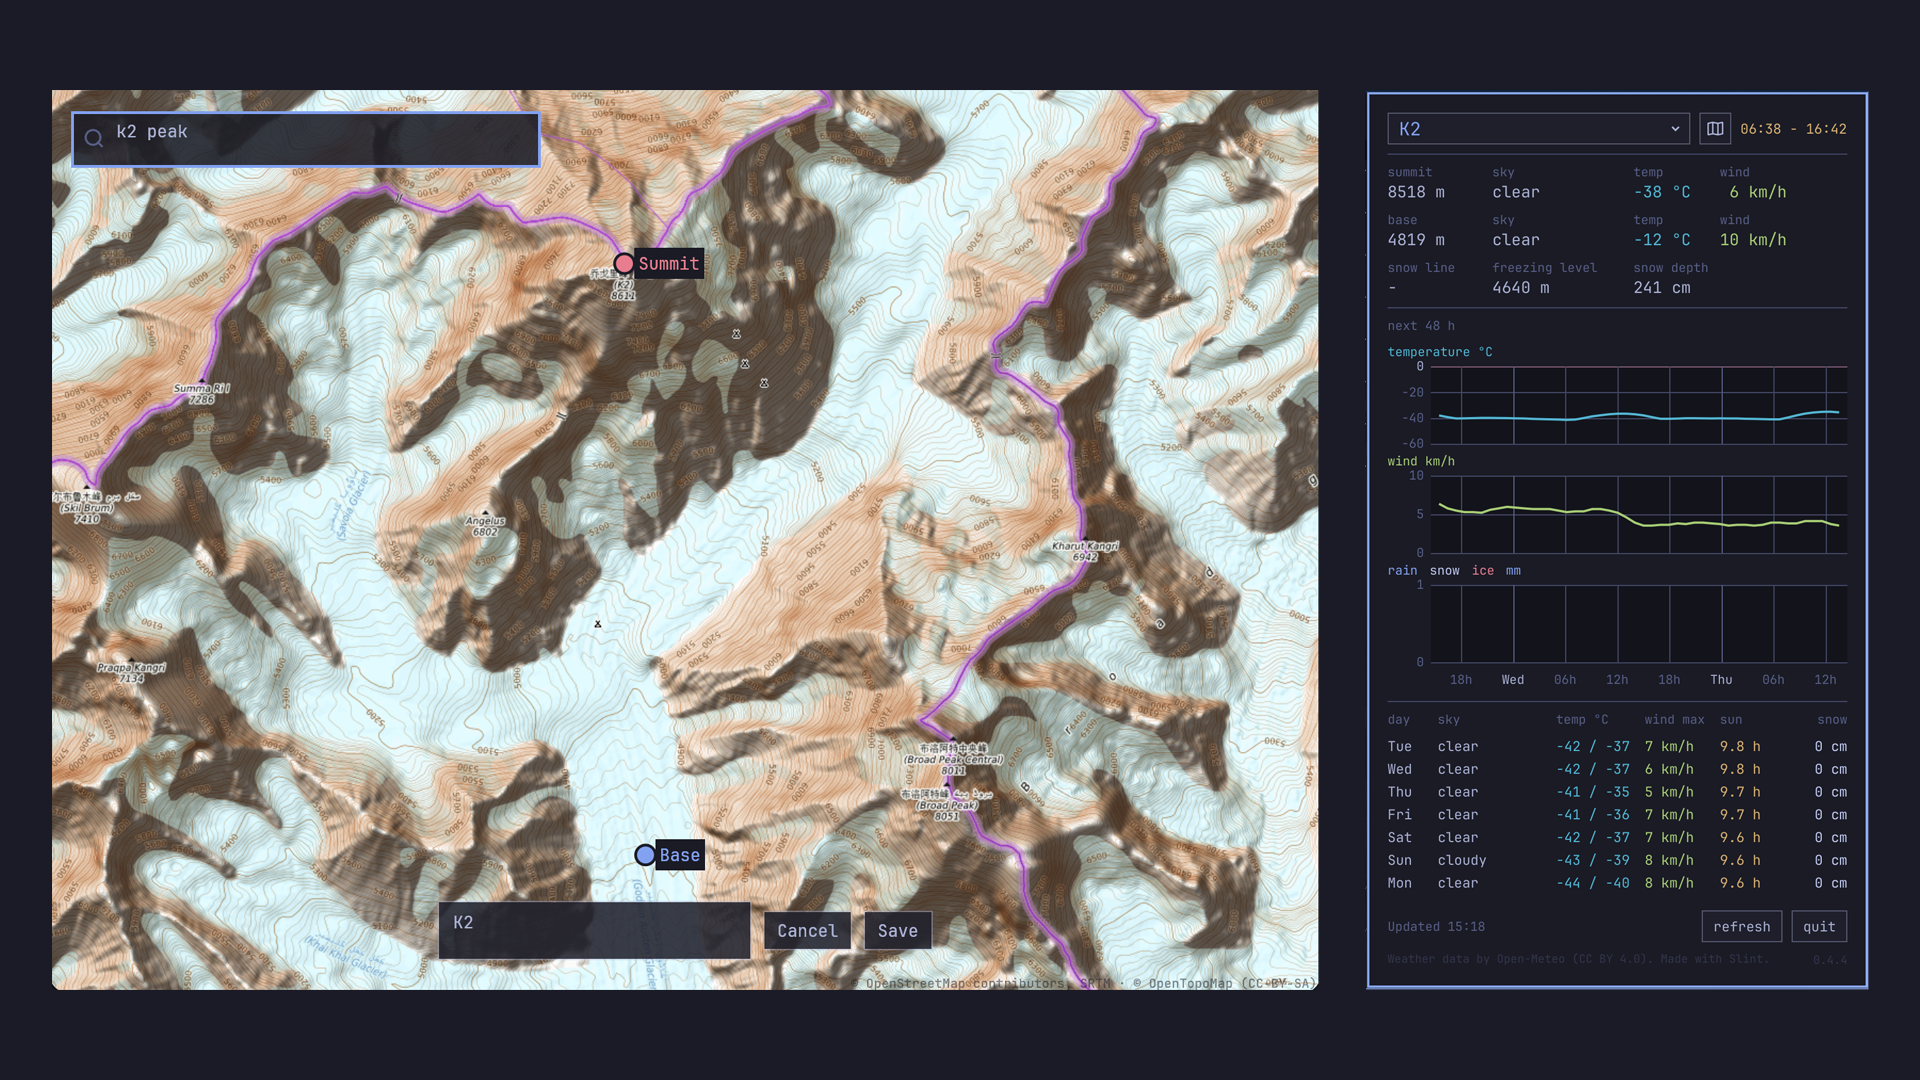
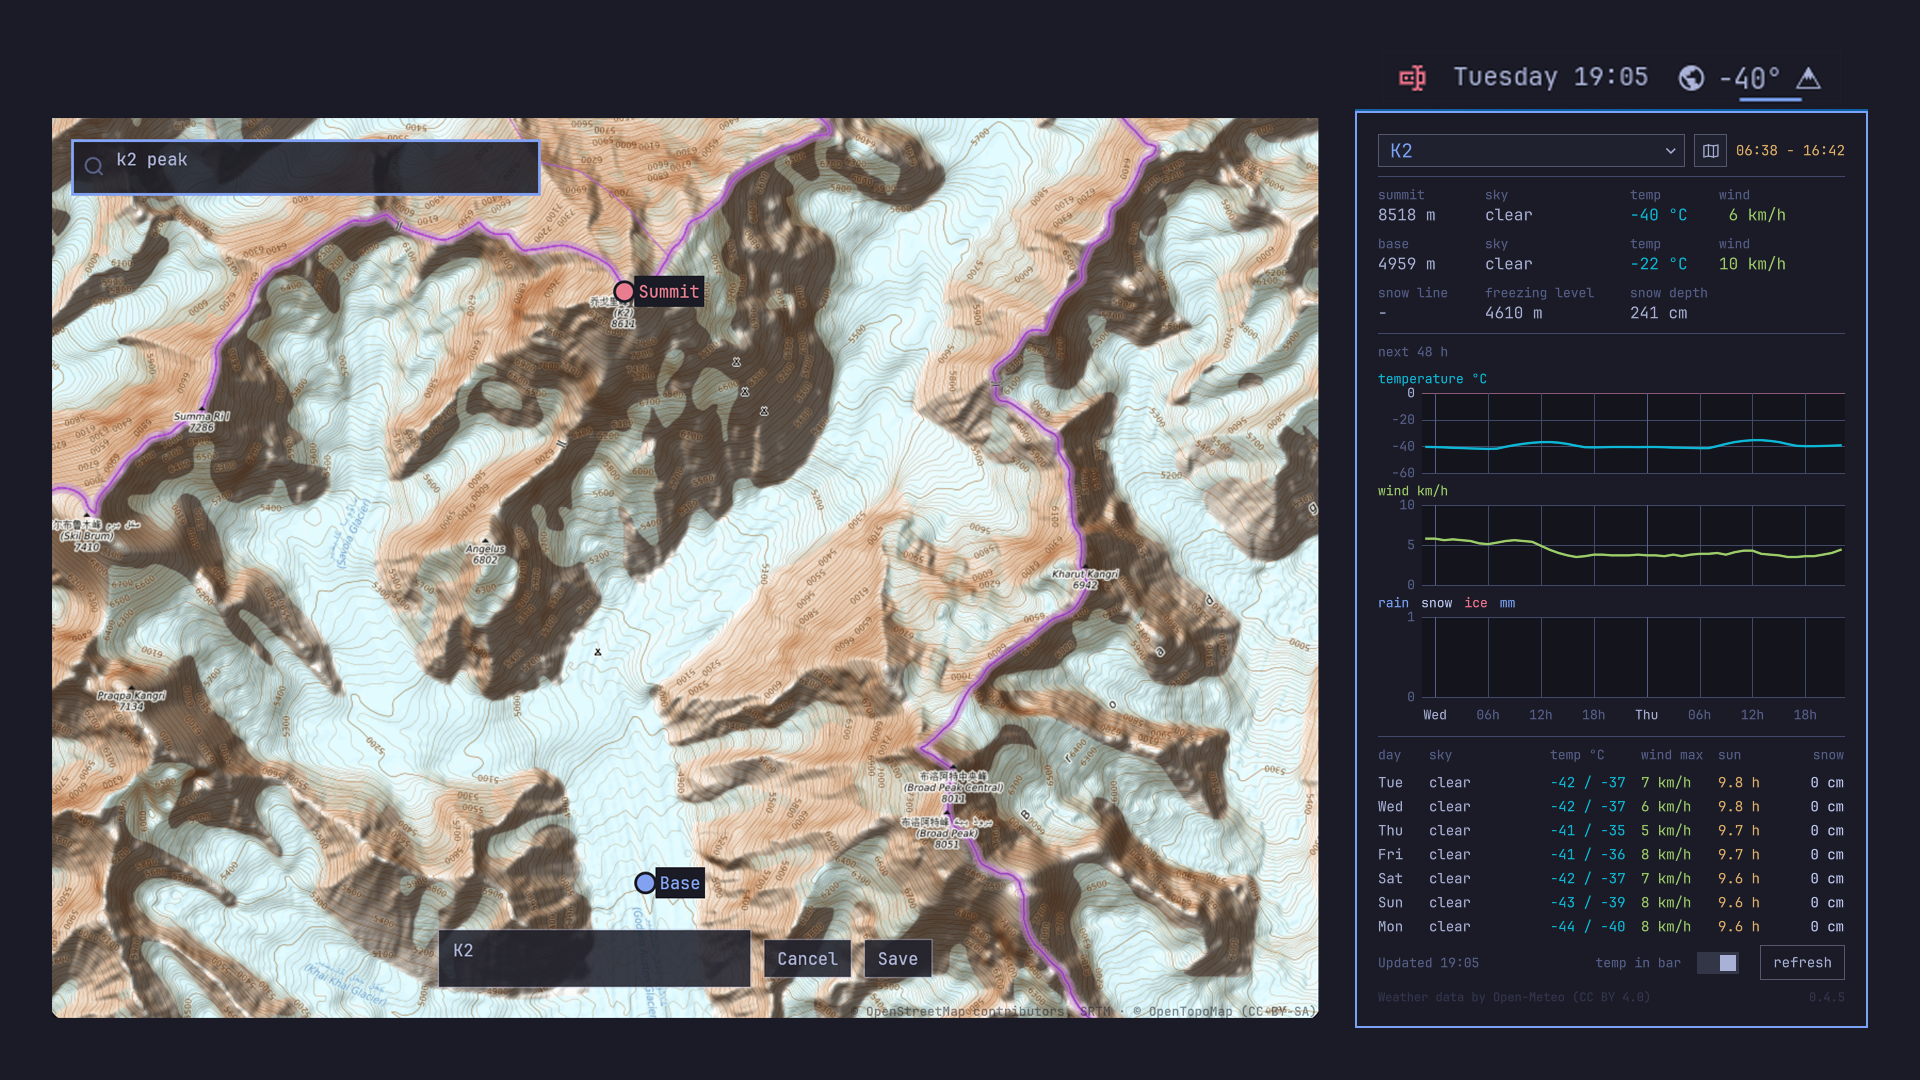
Show the Omarchy panel with the temperature in the bar in the preview and the README

diff --git a/README.md b/README.md
@@ -56,10 +56,10 @@ or run `omarchy bar move io.github.alrubearb-sys.peakcast --section center`.
 - `omarchy-shell io.github.alrubearb-sys.peakcast toggleTemperature` switches the temperature on
   or off.
 
-The panel for K2, and the map where its summit and base were picked:
+The panel for K2 with its temperature in the bar, and the map where its summit and base were picked:
 
 <p>
-  <img src="screenshots/panel-k2.png" alt="The panel for K2: -38 °C at the summit and 241 cm of snow" width="360">
+  <img src="screenshots/panel-k2.png" alt="The panel for K2 under the bar, which shows -40° next to the icon" width="360">
   <img src="screenshots/map-k2.png" alt="The map with the summit and the base of K2" width="560">
 </p>
 
